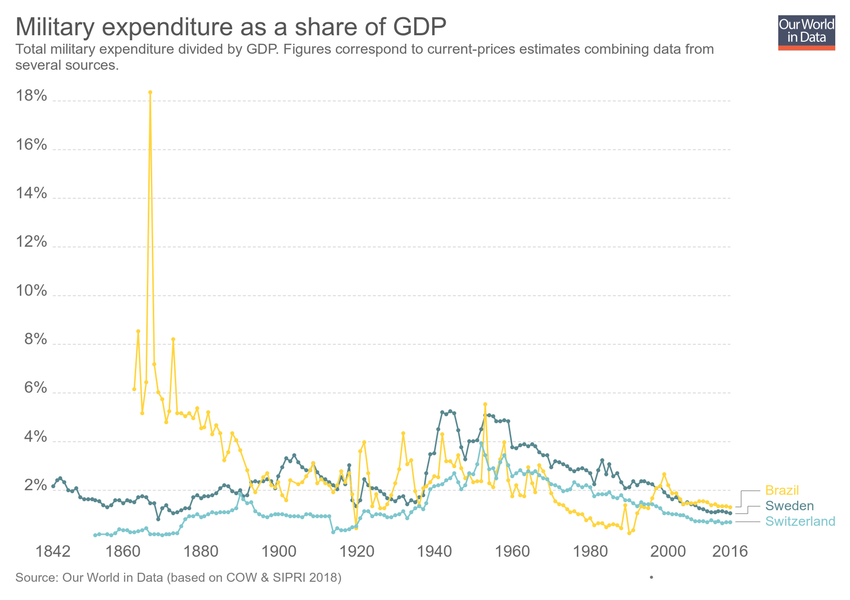
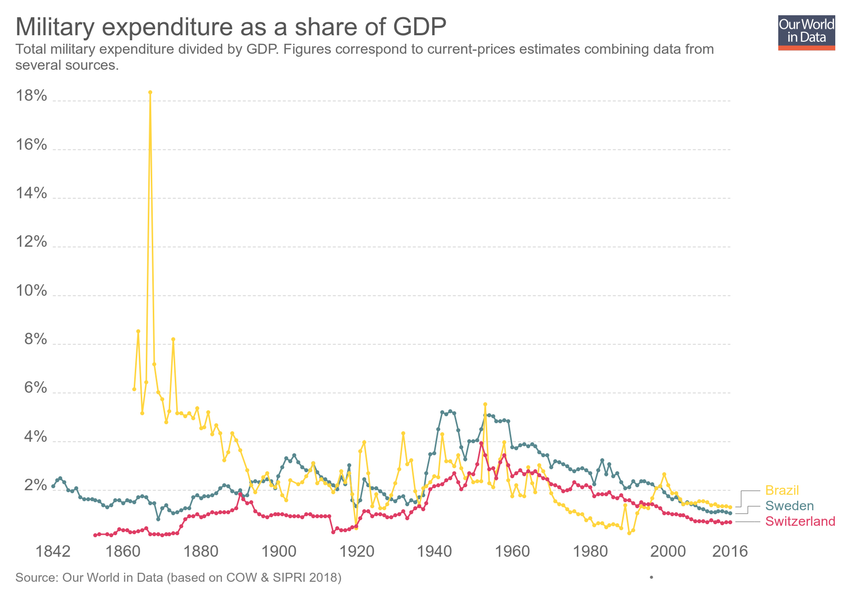
Updating chart military-expenditure-as-a-share-of-gdp-2

diff --git a/grapher/hiv-expenditure.html b/grapher/hiv-expenditure.html
@@ -1,4 +1,4 @@
-<!doctype html><html><head><meta name="viewport" content="width=device-width, initial-scale=1" /><title>HIV expenditure on prevention and treatment - Our World in Data</title><meta name="description" content="Total expenditure on HIV/AIDS prevention and treatment, measured in US$." /><link rel="canonical" href="https://ourworldindata.org/grapher/hiv-expenditure" /><meta property="fb:app_id" content="1149943818390250" /><meta property="og:url" content="https://ourworldindata.org/grapher/hiv-expenditure" /><meta property="og:title" content="HIV expenditure on prevention and treatment" /><meta property="og:description" content="Total expenditure on HIV/AIDS prevention and treatment, measured in US$." /><meta property="og:image" content="https://ourworldindata.org/grapher/exports/hiv-expenditure.png?v=1" /><meta property="og:image:width" content="850" /><meta property="og:image:height" content="600" /><meta property="og:site_name" content="Our World in Data" /><meta name="twitter:card" content="summary_large_image" /><meta name="twitter:site" content="@OurWorldInData" /><meta name="twitter:creator" content="@OurWorldInData" /><meta name="twitter:title" content="HIV expenditure on prevention and treatment" /><meta name="twitter:description" content="Total expenditure on HIV/AIDS prevention and treatment, measured in US$." /><meta name="twitter:image" content="https://ourworldindata.org/grapher/exports/hiv-expenditure.png?v=1" /><style>
+<!doctype html><html><head><meta name="viewport" content="width=device-width, initial-scale=1" /><title>HIV expenditure - Our World in Data</title><meta name="description" content="Country-reported HIV expenditure, measured in current US$ per year. The year of reported expenditure varies by country; this information can be found by hovering over a given country." /><link rel="canonical" href="https://ourworldindata.org/grapher/hiv-expenditure" /><meta property="fb:app_id" content="1149943818390250" /><meta property="og:url" content="https://ourworldindata.org/grapher/hiv-expenditure" /><meta property="og:title" content="HIV expenditure" /><meta property="og:description" content="Country-reported HIV expenditure, measured in current US$ per year. The year of reported expenditure varies by country; this information can be found by hovering over a given country." /><meta property="og:image" content="https://ourworldindata.org/grapher/exports/hiv-expenditure.png?v=1" /><meta property="og:image:width" content="850" /><meta property="og:image:height" content="600" /><meta property="og:site_name" content="Our World in Data" /><meta name="twitter:card" content="summary_large_image" /><meta name="twitter:site" content="@OurWorldInData" /><meta name="twitter:creator" content="@OurWorldInData" /><meta name="twitter:title" content="HIV expenditure" /><meta name="twitter:description" content="Country-reported HIV expenditure, measured in current US$ per year. The year of reported expenditure varies by country; this information can be found by hovering over a given country." /><meta name="twitter:image" content="https://ourworldindata.org/grapher/exports/hiv-expenditure.png?v=1" /><style>
         html, body {
             height: 100%;
             margin: 0;
@@ -20,19 +20,8 @@
         }
     </style><noscript><style>
                     figure { display: none !important; }
-                </style></noscript><link rel="stylesheet" href="https://ourworldindata.org/grapher/assets/commons.bundle.62f8703dfc964fd3975c.css" /><link rel="preload" href="/grapher/data/variables/96328.json?v=1" as="fetch" crossorigin /></head><body class="singleChart"><figure data-grapher-src="/grapher/hiv-expenditure"></figure><noscript id="fallback"><img src="/grapher/exports/hiv-expenditure.svg" /><p>Interactive visualization requires JavaScript</p></noscript><script src="https://cdn.polyfill.io/v2/polyfill.min.js?features=es6,fetch"></script><script src="https://ourworldindata.org/grapher/assets/commons.bundle.62f8703dfc964fd3975c.js"></script><script src="https://ourworldindata.org/grapher/assets/charts.bundle.dcf65b68eddaba4c6a58.js"></script><script>
-        var jsonConfig = {"map":{"projection":"World","targetYear":2015,"variableId":96328,"timeTolerance":3,"baseColorScheme":"YlGnBu","isManualBuckets":true,"colorSchemeLabels":[],"colorSchemeValues":[50000000,100000000,150000000,200000000,250000000,300000000,350000000,400000000],"defaultProjection":"World","colorSchemeMinValue":0,"customNumericColors":[null,null],"customCategoryColors":{},"customCategoryLabels":{},"customHiddenCategories":{}},"tab":"map","slug":"hiv-expenditure","type":"LineChart","title":"HIV expenditure on prevention and treatment","xAxis":{"scaleType":"linear"},"yAxis":{"min":0,"scaleType":"linear"},"version":1,"subtitle":"Total expenditure on HIV/AIDS prevention and treatment, measured in US$.","hasMapTab":true,"stackMode":"absolute","dimensions":[{"display":{"shortUnit":"$"},"property":"y","variableId":96328}],"hasChartTab":true,"isPublished":true,"selectedData":[{"index":0,"entityId":123},{"index":0,"entityId":237},{"index":0,"entityId":95}],"addCountryMode":"add-country","id":2488};
-        var figure = document.getElementsByTagName("figure")[0];
-        try {
-            window.App = {};
-            window.Global = { rootUrl: 'https://ourworldindata.org/grapher' };
-            ChartView.bootstrap({ jsonConfig: jsonConfig, containerNode: figure })
-        } catch (err) {
-            figure.innerHTML = "<img src=\"/grapher/exports/hiv-expenditure.svg\"/><p>Unable to load interactive visualization</p>";
-            figure.setAttribute("id", "fallback");
-            throw err;
-        }
-    </script></body></html>d":219},{"index":0,"entityId":23},{"index":0,"entityId":25},{"index":0,"entityId":26},{"index":0,"entityId":28},{"index":0,"entityId":29},{"index":0,"entityId":30},{"index":0,"entityId":4},{"index":0,"entityId":31},{"index":0,"entityId":32},{"index":0,"entityId":34},{"index":0,"entityId":35},{"index":0,"entityId":36},{"index":0,"entityId":37},{"index":0,"entityId":39},{"index":0,"entityId":40},{"index":0,"entityId":41},{"index":0,"entityId":18581},{"index":0,"entityId":42},{"index":0,"entityId":43},{"index":0,"entityId":174},{"index":0,"entityId":173},{"index":0,"entityId":172},{"index":0,"entityId":171},{"index":0,"entityId":170},{"index":0,"entityId":169},{"index":0,"entityId":168},{"index":0,"entityId":166},{"index":0,"entityId":143}],"addCountryMode":"add-country","hideTitleAnnotation":true,"id":2293};
+                </style></noscript><link rel="stylesheet" href="https://ourworldindata.org/grapher/assets/commons.bundle.62f8703dfc964fd3975c.css" /><link rel="preload" href="/grapher/data/variables/85855.json?v=1" as="fetch" crossorigin /></head><body class="singleChart"><figure data-grapher-src="/grapher/hiv-expenditure"></figure><noscript id="fallback"><img src="/grapher/exports/hiv-expenditure.svg" /><p>Interactive visualization requires JavaScript</p></noscript><script src="https://cdn.polyfill.io/v2/polyfill.min.js?features=es6,fetch"></script><script src="https://ourworldindata.org/grapher/assets/commons.bundle.62f8703dfc964fd3975c.js"></script><script src="https://ourworldindata.org/grapher/assets/charts.bundle.dcf65b68eddaba4c6a58.js"></script><script>
+        var jsonConfig = {"map":{"projection":"World","targetYear":2016,"variableId":85855,"equalSizeBins":true,"timeTolerance":5,"baseColorScheme":"Purples","isManualBuckets":true,"colorSchemeLabels":[],"colorSchemeValues":[50000000,100000000,200000000,300000000,400000000,500000000,750000000,1000000000],"defaultProjection":"World","colorSchemeMinValue":0,"customNumericColors":[null,null],"customCategoryColors":{},"customCategoryLabels":{},"customHiddenCategories":{}},"tab":"map","slug":"hiv-expenditure","type":"LineChart","title":"HIV expenditure","xAxis":{"scaleType":"linear"},"yAxis":{"min":0,"scaleType":"linear"},"version":1,"subtitle":"Country-reported HIV expenditure, measured in current US$ per year. The year of reported expenditure varies by country; this information can be found by hovering over a given country.","hasMapTab":true,"stackMode":"absolute","dimensions":[{"display":{},"property":"y","variableId":85855}],"isAutoSlug":true,"sourceDesc":"UNAIDS","hasChartTab":false,"isPublished":true,"selectedData":[{"index":0,"entityId":84},{"index":0,"entityId":233},{"index":0,"entityId":229},{"index":0,"entityId":15},{"index":0,"entityId":16},{"index":0,"entityId":17},{"index":0,"entityId":19},{"index":0,"entityId":20},{"index":0,"entityId":21},{"index":0,"entityId":22},{"index":0,"entityId":219},{"index":0,"entityId":23},{"index":0,"entityId":25},{"index":0,"entityId":26},{"index":0,"entityId":28},{"index":0,"entityId":29},{"index":0,"entityId":30},{"index":0,"entityId":4},{"index":0,"entityId":31},{"index":0,"entityId":32},{"index":0,"entityId":34},{"index":0,"entityId":35},{"index":0,"entityId":36},{"index":0,"entityId":37},{"index":0,"entityId":39},{"index":0,"entityId":40},{"index":0,"entityId":41},{"index":0,"entityId":18581},{"index":0,"entityId":42},{"index":0,"entityId":43},{"index":0,"entityId":174},{"index":0,"entityId":173},{"index":0,"entityId":172},{"index":0,"entityId":171},{"index":0,"entityId":170},{"index":0,"entityId":169},{"index":0,"entityId":168},{"index":0,"entityId":166},{"index":0,"entityId":143}],"addCountryMode":"add-country","hideTitleAnnotation":true,"id":2293};
         var figure = document.getElementsByTagName("figure")[0];
         try {
             window.App = {};

diff --git a/grapher/military-expenditure-as-a-share-of-gdp-2.html b/grapher/military-expenditure-as-a-share-of-gdp-2.html
@@ -1,4 +1,4 @@
-<!doctype html><html><head><meta name="viewport" content="width=device-width, initial-scale=1" /><title>Military expenditure as a share of GDP - Our World in Data</title><meta name="description" content="Total military expenditure divided by GDP. Figures correspond to current-prices estimates combining data from several sources." /><link rel="canonical" href="https://ourworldindata.org/grapher/military-expenditure-as-a-share-of-gdp-2" /><meta property="fb:app_id" content="1149943818390250" /><meta property="og:url" content="https://ourworldindata.org/grapher/military-expenditure-as-a-share-of-gdp-2" /><meta property="og:title" content="Military expenditure as a share of GDP" /><meta property="og:description" content="Total military expenditure divided by GDP. Figures correspond to current-prices estimates combining data from several sources." /><meta property="og:image" content="https://ourworldindata.org/grapher/exports/military-expenditure-as-a-share-of-gdp-2.png?v=5" /><meta property="og:image:width" content="850" /><meta property="og:image:height" content="600" /><meta property="og:site_name" content="Our World in Data" /><meta name="twitter:card" content="summary_large_image" /><meta name="twitter:site" content="@OurWorldInData" /><meta name="twitter:creator" content="@OurWorldInData" /><meta name="twitter:title" content="Military expenditure as a share of GDP" /><meta name="twitter:description" content="Total military expenditure divided by GDP. Figures correspond to current-prices estimates combining data from several sources." /><meta name="twitter:image" content="https://ourworldindata.org/grapher/exports/military-expenditure-as-a-share-of-gdp-2.png?v=5" /><style>
+<!doctype html><html><head><meta name="viewport" content="width=device-width, initial-scale=1" /><title>Military expenditure as a share of GDP - Our World in Data</title><meta name="description" content="Total military expenditure divided by GDP. Figures correspond to current-prices estimates combining data from several sources." /><link rel="canonical" href="https://ourworldindata.org/grapher/military-expenditure-as-a-share-of-gdp-2" /><meta property="fb:app_id" content="1149943818390250" /><meta property="og:url" content="https://ourworldindata.org/grapher/military-expenditure-as-a-share-of-gdp-2" /><meta property="og:title" content="Military expenditure as a share of GDP" /><meta property="og:description" content="Total military expenditure divided by GDP. Figures correspond to current-prices estimates combining data from several sources." /><meta property="og:image" content="https://ourworldindata.org/grapher/exports/military-expenditure-as-a-share-of-gdp-2.png?v=6" /><meta property="og:image:width" content="850" /><meta property="og:image:height" content="600" /><meta property="og:site_name" content="Our World in Data" /><meta name="twitter:card" content="summary_large_image" /><meta name="twitter:site" content="@OurWorldInData" /><meta name="twitter:creator" content="@OurWorldInData" /><meta name="twitter:title" content="Military expenditure as a share of GDP" /><meta name="twitter:description" content="Total military expenditure divided by GDP. Figures correspond to current-prices estimates combining data from several sources." /><meta name="twitter:image" content="https://ourworldindata.org/grapher/exports/military-expenditure-as-a-share-of-gdp-2.png?v=6" /><style>
         html, body {
             height: 100%;
             margin: 0;
@@ -20,8 +20,8 @@
         }
     </style><noscript><style>
                     figure { display: none !important; }
-                </style></noscript><link rel="stylesheet" href="https://ourworldindata.org/grapher/assets/commons.bundle.62f8703dfc964fd3975c.css" /><link rel="preload" href="/grapher/data/variables/96652.json?v=5" as="fetch" crossorigin /></head><body class="singleChart"><figure data-grapher-src="/grapher/military-expenditure-as-a-share-of-gdp-2"></figure><noscript id="fallback"><img src="/grapher/exports/military-expenditure-as-a-share-of-gdp-2.svg" /><p>Interactive visualization requires JavaScript</p></noscript><script src="https://cdn.polyfill.io/v2/polyfill.min.js?features=es6,fetch"></script><script src="https://ourworldindata.org/grapher/assets/commons.bundle.62f8703dfc964fd3975c.js"></script><script src="https://ourworldindata.org/grapher/assets/charts.bundle.dcf65b68eddaba4c6a58.js"></script><script>
-        var jsonConfig = {"id":2588,"map":{"projection":"World","targetYear":2000,"variableId":96652,"baseColorScheme":"YlOrRd","colorSchemeLabels":[],"colorSchemeValues":[],"colorSchemeMinValue":0,"customNumericColors":[],"customCategoryColors":{},"customCategoryLabels":{},"customHiddenCategories":{}},"tab":"chart","slug":"military-expenditure-as-a-share-of-gdp-2","type":"LineChart","title":"Military expenditure as a share of GDP","xAxis":{"scaleType":"linear"},"yAxis":{"scaleType":"linear"},"version":5,"subtitle":"Total military expenditure divided by GDP. Figures correspond to current-prices estimates combining data from several sources.","hasMapTab":true,"stackMode":"absolute","dimensions":[{"display":{},"property":"y","variableId":96652}],"hasChartTab":true,"isPublished":true,"selectedData":[{"color":"#58888f","index":0,"entityId":10},{"color":"#ffd53e","index":0,"entityId":37},{"color":"#7ec7ce","index":0,"entityId":7}],"addCountryMode":"add-country"};
+                </style></noscript><link rel="stylesheet" href="https://ourworldindata.org/grapher/assets/commons.bundle.62f8703dfc964fd3975c.css" /><link rel="preload" href="/grapher/data/variables/96652.json?v=6" as="fetch" crossorigin /></head><body class="singleChart"><figure data-grapher-src="/grapher/military-expenditure-as-a-share-of-gdp-2"></figure><noscript id="fallback"><img src="/grapher/exports/military-expenditure-as-a-share-of-gdp-2.svg" /><p>Interactive visualization requires JavaScript</p></noscript><script src="https://cdn.polyfill.io/v2/polyfill.min.js?features=es6,fetch"></script><script src="https://ourworldindata.org/grapher/assets/commons.bundle.62f8703dfc964fd3975c.js"></script><script src="https://ourworldindata.org/grapher/assets/charts.bundle.dcf65b68eddaba4c6a58.js"></script><script>
+        var jsonConfig = {"id":2588,"map":{"projection":"World","targetYear":2000,"variableId":96652,"baseColorScheme":"YlOrRd","colorSchemeLabels":[],"colorSchemeValues":[],"colorSchemeMinValue":0,"customNumericColors":[],"customCategoryColors":{},"customCategoryLabels":{},"customHiddenCategories":{}},"tab":"chart","slug":"military-expenditure-as-a-share-of-gdp-2","type":"LineChart","title":"Military expenditure as a share of GDP","xAxis":{"scaleType":"linear"},"yAxis":{"scaleType":"linear"},"version":6,"subtitle":"Total military expenditure divided by GDP. Figures correspond to current-prices estimates combining data from several sources.","hasMapTab":true,"stackMode":"absolute","dimensions":[{"display":{},"property":"y","variableId":96652}],"hasChartTab":true,"isPublished":true,"selectedData":[{"color":"#58888f","index":0,"entityId":10},{"color":"#ffd53e","index":0,"entityId":37},{"color":"#df3c64","index":0,"entityId":7}],"addCountryMode":"add-country"};
         var figure = document.getElementsByTagName("figure")[0];
         try {
             window.App = {};
